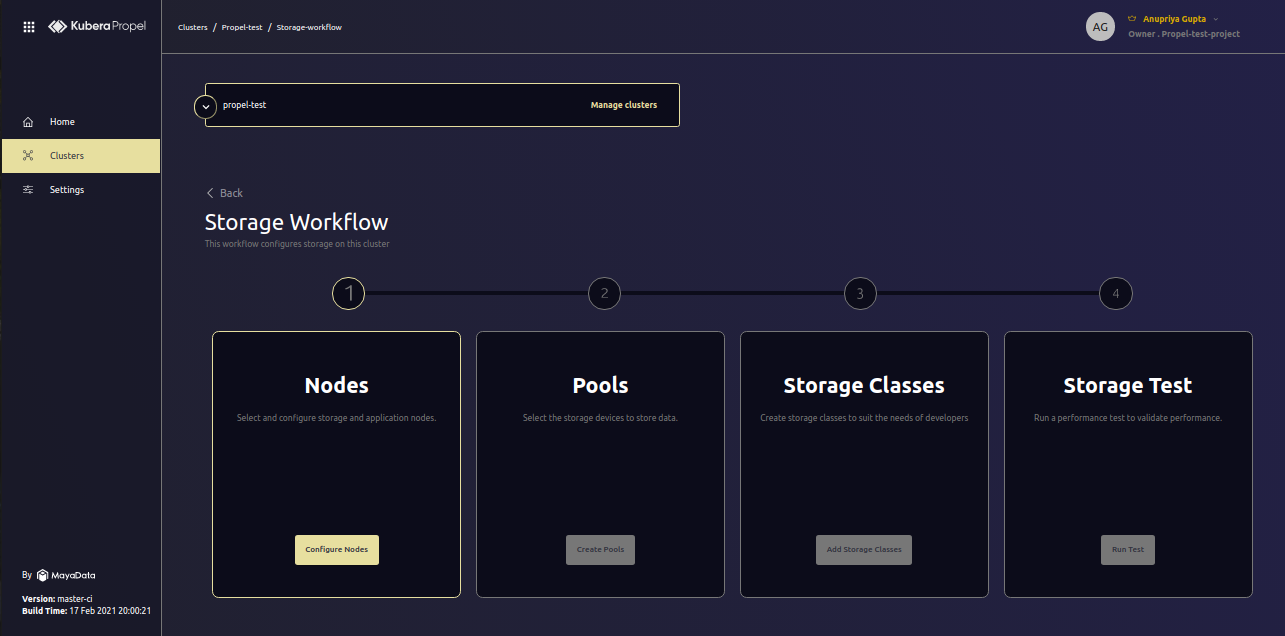
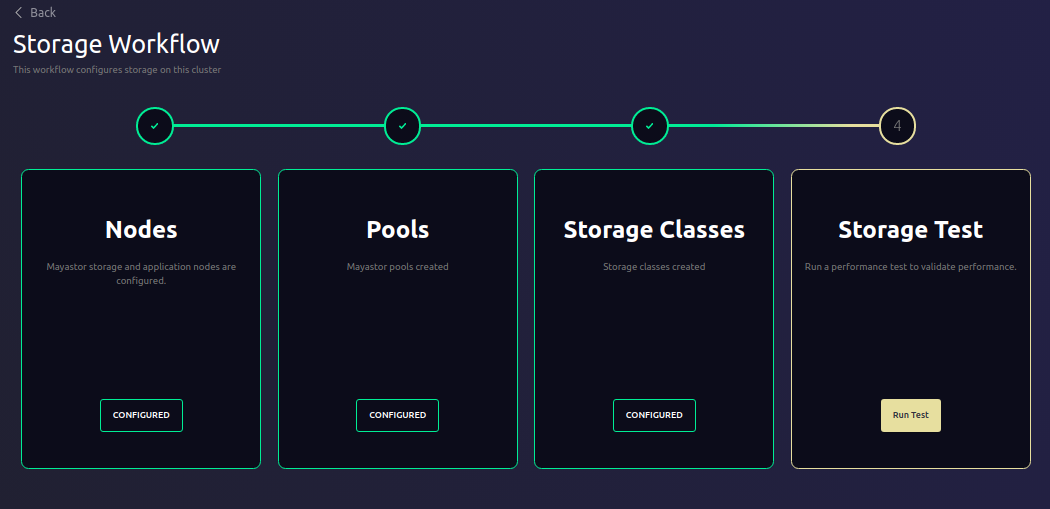
Updated screenshots and links

diff --git a/content/kubera-propel/getting-started-with-kubera-propel.md b/content/kubera-propel/getting-started-with-kubera-propel.md
@@ -16,7 +16,7 @@ versions:
 - Raw disks must be attached(preferably NVMe disks).
 - A total of 1024 HugePages. To know the detailed steps to enable HugePage support click <a href="https://mayastor.gitbook.io/introduction/quickstart/preparing-the-cluster#configure-mayastor-nodes-msns" target="_blank">here</a>. 
 <hr>
-To get started with Kubera Propel, login to <u><a href="https://kubera-docs.mayadatastaging.io/en/free-pro-team@latest/kubera-enterprise/quickstart#accessing-kubera" target="_blank">Kubera</a></u> and click on <b>Start Kubera Propel</b>. This activates the Kubera Propel portal based on your subscription plan, or for new users begins a trial plan.
+To get started with Kubera Propel, login to <u><a href="/en/free-pro-team@latest/kubera-enterprise/quickstart#accessing-kubera" target="_blank">Kubera</a></u> and click on <b>Start Kubera Propel</b>. This activates the Kubera Propel portal based on your subscription plan, or for new users begins a trial plan.
 <br><br>
 <a href="/assets/images/propel_main.png" target="_blank"><img class="image-with-border" src="/assets/images/propel_main.png"></a>
 <br><br> 
@@ -43,10 +43,10 @@ You will now be redirected to the Kubera Propel home screen.
 <a href="/assets/images/PropelLandingPage.png" target="_blank"><img class="image-with-border" src="/assets/images/PropelLandingPage.png"></a>
 <br><br>
 
-You are all set to use Kubera Propel. You can either configure storage on this Kubernetes cluster or <a href="https://kubera-docs.mayadata.io/en/free-pro-team@latest/kubera-propel/adding-new-kubernetes-cluster-to-propel" target="_blank">deploy a new agent</a>.<br>
+You are all set to use Kubera Propel. You can either configure storage on this Kubernetes cluster or <a href="/en/free-pro-team@latest/kubera-propel/adding-new-kubernetes-cluster-to-propel" target="_blank">deploy a new agent</a>.<br>
 For the next steps, see
 <ul>
-<li><a href="https://kubera-docs.mayadata.io/en/free-pro-team@latest/kubera-propel/adding-new-kubernetes-cluster-to-propel">Configure Nodes, Pools and Storage Class</a></li>
-<li><a href="http://localhost:4000/en/free-pro-team@latest/kubera-propel/configure-storage-nodes#a-sample-mysql-application-utilising-the-above-created-storage-class" target="_blank">Deploying a sample application using the above Storage Class</a></li>
+<li><a href="/en/free-pro-team@latest/kubera-propel/adding-new-kubernetes-cluster-to-propel" target="_blank">Configure Nodes, Pools and Storage Class</a></li>
+<li><a href="/en/free-pro-team@latest/kubera-propel/configure-storage-nodes#a-sample-mysql-application-utilising-the-above-created-storage-class" target="_blank">Deploying a sample application using the above Storage Class</a></li>
 </ul>
 

diff --git a/content/kubera-propel/benchmarking-your-storage.md b/content/kubera-propel/benchmarking-your-storage.md
@@ -16,20 +16,23 @@ To perform the storage test:
 * Click on the <b> Run Test</b> for running the benchmarking. 
 
 
-<a href="/assets/images/KuberaPropel/StorageWorkfowNew.png" target="_blank"><img class="image-with-border" src="/assets/images/KuberaPropel/StorageWorkfowNew.png"></a>
+<a href="/assets/images/KuberaPropel/StorageWorkflow.png" target="_blank"><img class="image-with-border" src="/assets/images/KuberaPropel/StorageWorkflow.png"></a>
 
 Kubera Propel uses the Fio tester against the underlying PV for performing the storage benchmarking. This Fio test analysis will help you with detecting the “Average IOPS”, “Average Throughput and Latency”.
 
 Once you click on <b>Run Storage Test</b>, the next screen will let you create the test where you can add the “Test Name” as per your choice.
 
 <br><br>
-<a href="/assets/images/KuberaPropel/RunTest.png" target="_blank"><img class="image-with-border" src="/assets/images/KuberaPropel/RunTest.png"></a>
+<a href="/assets/images/KuberaPropel/FIOTestCreate.png" target="_blank"><img class="image-with-border" src="/assets/images/KuberaPropel/FIOTestCreate.png"></a>
 <br><br>
 You can also select the “Storage Class” which you created earlier.
 <br><br>
 Finally click on <b>Run a performance test</b>
 <br><br>
-Lastly, after the Fio test gets completed, it will share the results of “Average IOPS, Throughput and Average latency if any”. You can also click on “View Report” to get a detailed view of the FIO tests performed. Historical tests can also be viewed from the same screen and the specific test can be rerun or reviewed to identify the performance calculated by FIO for that test case with “Read  and Write IOPS”, “Read and Write latency”. Export of the results can be done by clicking on <b>Export to PDF</b>.
+Lastly, after the Fio test gets completed, it will share the results of “Average IOPS, Throughput and Average latency if any”.
+<br><br>
+<a href="/assets/images/KuberaPropel/TestTable.png" target="_blank"><img class="image-with-border" src="/assets/images/KuberaPropel/TestTable.png"></a>
+<br><br> You can also click on <b>View Report</b> to get a detailed view of the FIO tests performed. Historical tests can also be viewed from the same screen and the specific test can be rerun or reviewed to identify the performance calculated by FIO for that test case with “Read  and Write IOPS”, “Read and Write latency”. Export of the results can be done by clicking on <b>Export to PDF</b>.
 
 
 <a href="/assets/images/KuberaPropel/1.png" target="_blank"><img class="image-with-border" src="/assets/images/KuberaPropel/1.png"></a>

diff --git a/content/kubera-propel/introduction.md b/content/kubera-propel/introduction.md
@@ -8,7 +8,7 @@ versions:
   free-pro-team: '*'
 ---
 
-Kubera Propel is a component of  [OpenEBS](https://openebs.io/) and is actively developed and maintained by [MayaData](https://mayadata.io/), as part of the Kubera platform for data agility. Kubera Propel is based upon the CNCF project OpenEBS. OpenEBS Mayastor is an open source Container Attached Storage - a pattern that includes the use of Kubernetes itself as a control plane for storage to deliver per workload storage. Teams and workloads that have different needs can use OpenEBS in different ways - and can remain loosely coupled; this is extremely different from traditional shared everything storage.  Kubera Propel is perhaps best known due to multiple benchmarks in the Fall of 2020  indicating that it is extremely performant, highly available with low overhead abstraction, and appears to be the lowest latency widely deployed storage software available for Kubernetes.  
+Kubera Propel is a component of  <a href="https://openebs.io/" target="_blank">OpenEBS</a> and is actively developed and maintained by <a href="https://mayadata.io/" target="_blank">MayaData</a>, as part of the Kubera platform for data agility. Kubera Propel is based upon the CNCF project OpenEBS. OpenEBS Mayastor is an open source Container Attached Storage - a pattern that includes the use of Kubernetes itself as a control plane for storage to deliver per workload storage. Teams and workloads that have different needs can use OpenEBS in different ways - and can remain loosely coupled; this is extremely different from traditional shared everything storage.  Kubera Propel is perhaps best known due to multiple benchmarks in the Fall of 2020  indicating that it is extremely performant, highly available with low overhead abstraction, and appears to be the lowest latency widely deployed storage software available for Kubernetes.  
 
 
 
@@ -38,4 +38,4 @@ Storage performance tuning is hard. Propel provides an easy to use interface to 
 
 
 
-To get started Today with Kubera Propel, see the [quickstart](https://kubera-docs.mayadata.io/en/free-pro-team@latest/kubera-propel/getting-started-with-kubera-propel) article.
+To get started Today with Kubera Propel, see the <a href="/en/free-pro-team@latest/kubera-propel/getting-started-with-kubera-propel" target="_blank">quickstart</a> article.

diff --git a/content/kubera-propel/adding-new-kubernetes-cluster-to-propel.md b/content/kubera-propel/adding-new-kubernetes-cluster-to-propel.md
@@ -13,18 +13,15 @@ versions:
 
 * Go to <b>Clusters tab</b> and then click on <b>Manage clusters</b>. Here you can either select an existing cluster or you can add a new  cluster. 
 <br><br>
-<a href="/assets/images/ManageCluster.png" target="_blank"><img class="image-with-border" src="/assets/images/ManageCluster.png"></a>
+<a href="/assets/images/KuberaPropel/ManageCluster.png" target="_blank"><img class="image-with-border" src="/assets/images/KuberaPropel/ManageCluster.png"></a>
 <br><br>
 * Click on <b>Add cluster</b> to add a new cluster to the existing list of clusters.
 <br><br>
-<a href="/assets/images/propel2.png" target="_blank"><img class="image-with-border" src="/assets/images/propel2.png"></a>
-<br><br>
-<br><br>
-<a href="/assets/images/propel3.png" target="_blank"><img class="image-with-border" src="/assets/images/propel3.png"></a>
+<a href="/assets/images/KuberaPropel/DeployAgent.png" target="_blank"><img class="image-with-border" src="/assets/images/KuberaPropel/DeployAgent.png"></a>
 <br><br>
 <br><br>
 * To connect new agents to your portal, follow the below mentioned steps:
-  - Go to your terminal and download Kuberactl latest binaries. To get Kuberactl binaries execute the below-mentioned command based your OS-
+  - Go to your terminal and download Kuberactl latest binaries. To get Kuberactl binaries execute the below-mentioned command based your OS-<br>
 For Linux(64 bit),
 <pre>wget http://asset.mayadata.io/kuberactl/latest/kuberactl_latest_Linux_x86_64.tar.gz
 </pre>
@@ -63,4 +60,4 @@ After verification of these details you can proceed with registration of the age
 
 
 
-* For the next steps, see <a href="https://kubera-docs.mayadata.io/en/free-pro-team@latest/kubera-propel/benchmarking-your-storage">Benchmarking your storage</a> . 
+* For the next steps, see <a href="/en/free-pro-team@latest/kubera-propel/benchmarking-your-storage" target="_blank">Benchmarking your storage</a> . 

diff --git a/content/kubera-propel/configure-storage-nodes.md b/content/kubera-propel/configure-storage-nodes.md
@@ -11,9 +11,9 @@ versions:
 
 To configure your storage on this Kubernetes cluster, click on <b>Configure Storage on this Kubernetes cluster</b> card present on the right side of your screen.
 <br><br>
-<a href="/assets/images/propel6_new.png" target="_blank"><img class="image-with-border" src="/assets/images/propel6_new.png"></a>
+<a href="/assets/images/KuberaPropel/PropelHomePage.png" target="_blank"><img class="image-with-border" src="/assets/images/KuberaPropel/PropelHomePage.png"></a>
 <br><br>
-* Kubera Propel gives the option to segregate storage and application Nodes.
+* Kubera Propel gives the option to segregate storage and application nodes.
 
 * Select the Nodes button which will help you in configuring your Storage Nodes and Application nodes.
 
@@ -144,4 +144,4 @@ mayastor-nvmf-209dg   io.openebs.csi-mayastor   Delete          Immediate       
 <br><br>
 <a href="/assets/images/propel16.png" target="_blank"><img class="image-with-border" src="/assets/images/propel16.png"></a>
 <br><br>
-This Storage Class can be used to <a href="https://kubera-docs.mayadatastaging.io/en/free-pro-team@latest/kubera-propel/deploying-a-sample-application" target="_blank">provision application(s)</a>.
+This Storage Class can be used to <a href="/en/free-pro-team@latest/kubera-propel/deploying-a-sample-application" target="_blank">provision application(s)</a>.

diff --git a/content/kubera-enterprise/Air-Gapped-environments.md b/content/kubera-enterprise/Air-Gapped-environments.md
@@ -42,7 +42,7 @@ The steps in this document walk you through the process of installing Kubera Ent
 
 
 *   Download and copy the kubera-charts zip file to the target cluster. You can download the zip file and then copy it to the target cluster.
-*   To download the zip file visit [https://github.com/mayadata-io/kubera-charts](https://github.com/mayadata-io/kubera-charts) and refer to the screenshot below.
+*   To download the zip file visit this <a href="https://github.com/mayadata-io/kubera-charts" target="_blank">GitHub page</a> and refer to the screenshot below.
 
     
 
@@ -220,13 +220,15 @@ kubera-mongodb                              ClusterIP      10.107.93.241    <non
 </pre>
 
 <br><br>
-<a href="/assets/images/Airgap2.png" target="_blank"><img class="image-with-border" src="/assets/images/Airgap2.png"></a>
+<a href="/assets/images/enterprise/LoginScreen.png" target="_blank"><img class="image-with-border" src="/assets/images//enterprise/LoginScreen.png"></a>
 <br><br>
 
 
-
+<blockquote>
+<b>NOTE:</b><br>
 The default credentials are
 
-Username: admin 
+Username: <b>admin</b> <br>
+Password: <b>kubera</b>
 
-Password: kubera
+</blockquote>

diff --git a/content/kubera-enterprise/subscriptions.md b/content/kubera-enterprise/subscriptions.md
@@ -23,7 +23,7 @@ Subscription pricing details can be found on the MayaData <a href="https://mayad
 
 After installing Kubera Enterprise, you will need to obtain a non-expiring free subscription at <a href="https://vendor.mayadata.io" target="_blank">vendor.mayadata.io</a>. Below steps describe the procedure to obtain and install the free subscription.
 
-- Install Kubera Enterprise either in a <a href="https://kubera-docs.mayadata.io/en/free-pro-team@latest/kubera-enterprise/quickstart" targte="_blank">regular</a> or <a href="https://kubera-docs.mayadata.io/en/free-pro-team@latest/kubera-enterprise/Air-Gapped-environments" target="_blank">air-gapped</a> environment
+- Install Kubera Enterprise either in a <a href="/en/free-pro-team@latest/kubera-enterprise/quickstart" target="_blank">regular</a> or <a href="/en/free-pro-team@latest/kubera-enterprise/Air-Gapped-environments" target="_blank">air-gapped</a> environment
 - Obtain the Kubera ID from the <b>Subscription</b> section
 <a href="/assets/images/enterprise/kuberaID.png" target="_blank"><img class="image-with-border" src="/assets/images/enterprise/kuberaID.png"></a>
 <br><br>

diff --git a/content/kubera-enterprise/quickstart.md b/content/kubera-enterprise/quickstart.md
@@ -91,7 +91,7 @@ To create a new namespace, execute:
 <pre>kubectl create ns kubera</pre>
 </li>
 <li>Next, execute the below-mentioned command to install Kubera with default values, 
-or to install with domain and HTTPS <a href="https://kubera-docs.mayadata.io/en/free-pro-team@latest/kubera-enterprise/installation-with-tls" target="_blank">Click here</a>.
+or to install with domain and HTTPS <a href="/en/free-pro-team@latest/kubera-enterprise/installation-with-tls" target="_blank">Click here</a>.
 
 <pre>helm install kubera kubera/kubera-enterprise -n kubera</pre>
 <br>
@@ -186,6 +186,5 @@ Password- kubera
 After changing the default credentials, your Kubera Enterprise is ready for basic use. For the next steps, see
 
 - Configuring [HTTPS for Kubera Enterprise](installation-with-tls)
-- Configuring [GitHub social authentication](ghauth)
 - Onboarding [users](User-management)
 

diff --git a/content/kubera-enterprise/Uninstalling.md b/content/kubera-enterprise/Uninstalling.md
@@ -35,4 +35,4 @@ To delete the PVCs, execute:
 <li>For setups where the storage class was deployed manually, delete the created storage class.</li>
 </ul>
 </blockquote>
-The above mentioned steps only clean up Kubera Enterprise resources. In case, the setup also contains Kubera Propel follow <a href="https://kubera-docs.mayadata.io/en/free-pro-team@latest/kubera-propel/uninstalling" target="_blank">Kubera Propel uninstallation</a> section.  
+The above mentioned steps only clean up Kubera Enterprise resources. In case, the setup also contains Kubera Propel follow <a href="/en/free-pro-team@latest/kubera-propel/uninstalling" target="_blank">Kubera Propel uninstallation</a> section.  

diff --git a/content/kubera-propel/uninstalling.md b/content/kubera-propel/uninstalling.md
@@ -147,4 +147,4 @@ To delete,
 <pre>kubectl delete namespace mayastor</pre></li>
 </ul>
 
-To delete the entire Kubera Enterprise setup, follow the steps mentioned under [Uninstaling Kubera](/en/free-pro-team@latest/kubera-enterprise/Uninstalling)section.
+To delete the entire Kubera Enterprise setup, follow the steps mentioned under <a href="/en/free-pro-team@latest/kubera-enterprise/Uninstalling" target="_blank">Uninstaling Kubera</a> section.
